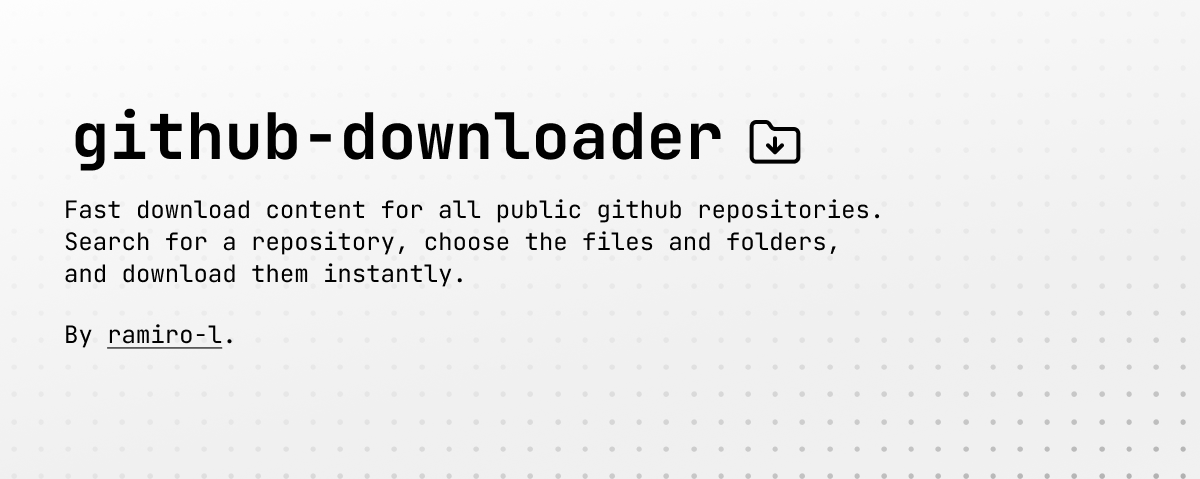
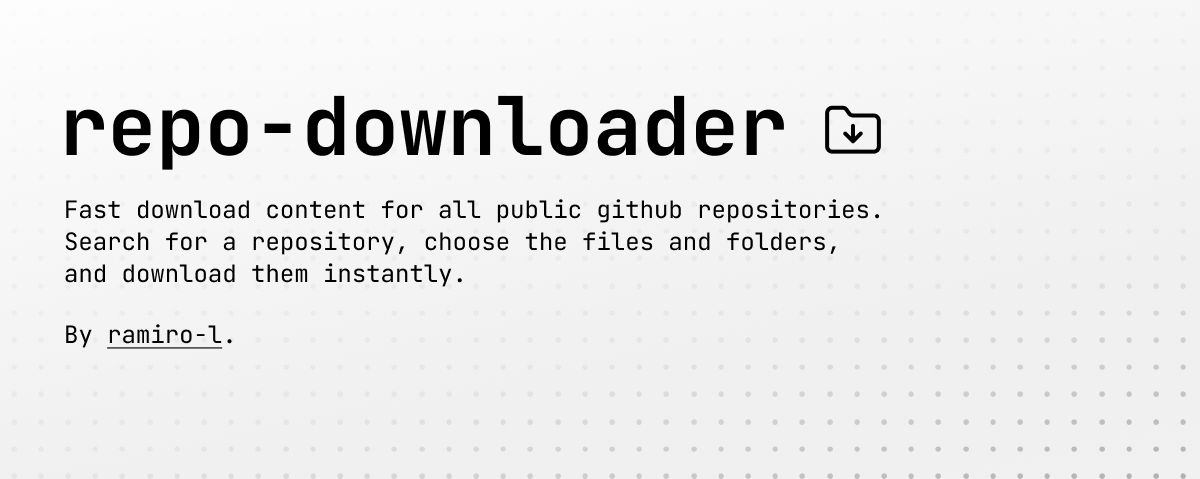
feat: new page name.

Changed region(s): [[0.0308, 0.1754, 0.74, 0.38]]

diff --git a/app/page.tsx b/app/page.tsx
@@ -5,12 +5,12 @@ export default async function IndexPage() {
     return (
         <section className="container grid items-center gap-6  pb-8 pt-6 md:pt-10 lg:px-32 xl:px-64">
             <div className="flex max-w-[980px] flex-col items-start gap-2 max-lg:!max-w-full max-lg:items-center max-lg:text-center">
-                <h1 className="text-balance text-3xl font-extrabold leading-tight tracking-tighter md:text-4xl">
+                <h2 className="text-balance text-3xl font-extrabold leading-tight tracking-tighter md:text-4xl">
                     Fast download content
                     <br className="max-lg:hidden" /> for all public github
                     repositories.
-                </h1>
-                <p className=" text-balance text-lg text-muted-foreground  max-lg:max-w-[400px]">
+                </h2>
+                <h3 className=" text-balance text-lg text-muted-foreground  max-lg:max-w-[400px]">
                     Search for a repository, choose the files and folders, and
                     download them instantly. <br className="lg:hidden" />
                     <span className=" text-nowrap">
@@ -25,7 +25,7 @@ export default async function IndexPage() {
                         </a>
                         .
                     </span>
-                </p>
+                </h3>
             </div>
 
             <ContainerTool />

diff --git a/config/site.ts b/config/site.ts
@@ -1,11 +1,11 @@
 export type SiteConfig = typeof siteConfig
 
 export const siteConfig = {
-    url: "https://github-downloader.pages.dev",
-    name: "github-downloader",
+    url: "https://repo-downloader.pages.dev",
+    name: "repo-downloader",
     description: "Fast download content for all public github repositories.",
     links: {
         me: "https://github.com/ramiro-l",
-        github: "https://github.com/ramiro-l/github-downloader",
+        github: "https://github.com/ramiro-l/repo-downloader",
     },
 }

diff --git a/components/main-nav.tsx b/components/main-nav.tsx
@@ -9,9 +9,9 @@ export function MainNav() {
         <div className="flex gap-6 md:gap-10">
             <Link href="/" className="flex items-center space-x-2">
                 <Icons.Logo className="mb-1 size-6" />
-                <span className="inline-block font-mono font-bold">
+                <h1 className="inline-block font-mono font-bold">
                     {siteConfig.name}
-                </span>
+                </h1>
             </Link>
         </div>
     )

diff --git a/README.md b/README.md
@@ -1,4 +1,4 @@
-# Github Downloader
+# Repo Downloader
 
 ![preview](./app/og.png)
 
